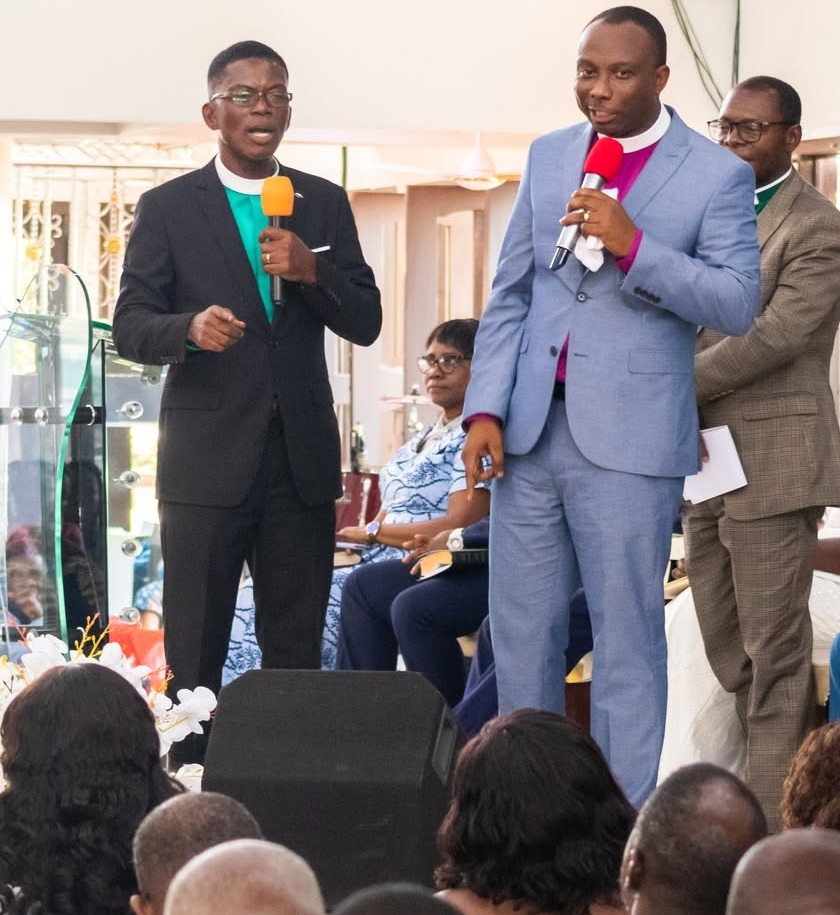
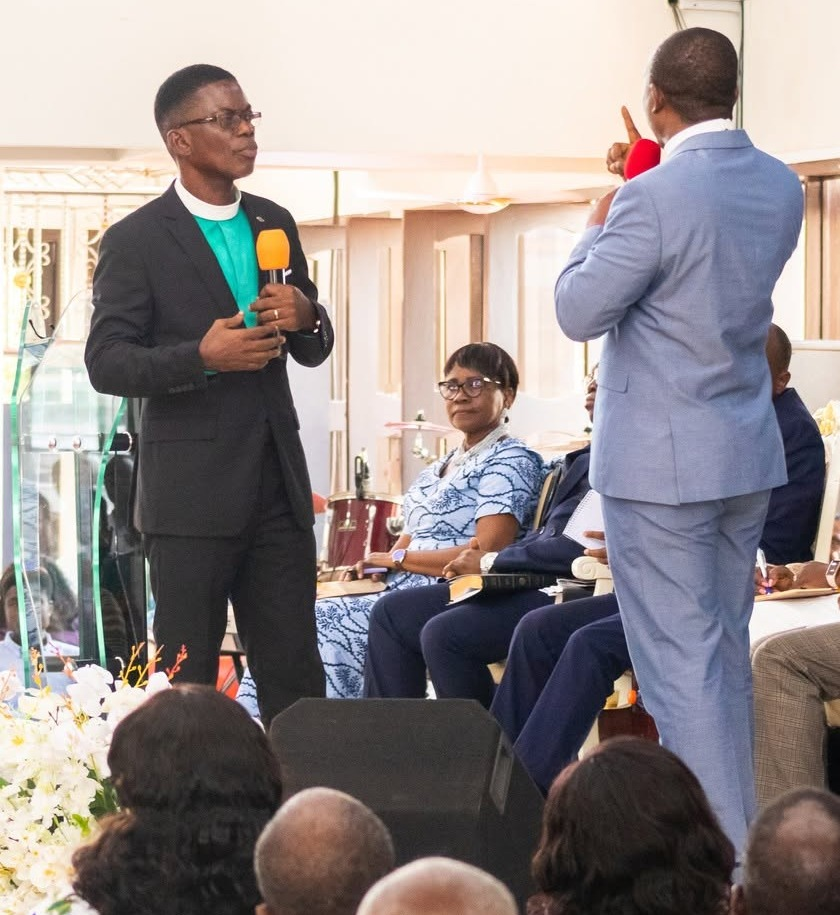
Hero slide 3: use the better General Conference photo (last man on the right cropped out)
Claude-Session: https://claude.ai/code/session_01WNegXjVZ9ijkhXkp86Er53

diff --git a/MAINTENANCE-GUIDE.md b/MAINTENANCE-GUIDE.md
@@ -254,7 +254,7 @@ dialog.** With it on, ERPNext shrinks the picture (a 2400 pixel image came back
 lower left, so keep faces and key details away from that corner. A portrait photo
 needs a wide background built around it first; ask me and I will make it. If
 **Image** is blank, the slide shows the built-in photo for that slot (slot 1 is
-the Women's Convention 2026 photo in the repo, slot 2 is the 2026 theme design (a flame with rings spreading outward, no text), slot 3 is the General Conference photo (the two preachers)).
+the Women's Convention 2026 photo in the repo, slot 2 is the 2026 theme design (a flame with rings spreading outward, no text), slot 3 is the General Conference photo (the two preachers on stage)).
 Slide 3's ERPNext image is still a placeholder, so upload the real one there.
 
 **Phones show a different picture for slides 1 and 3.** Under 768 pixels wide, slide 1 shows
